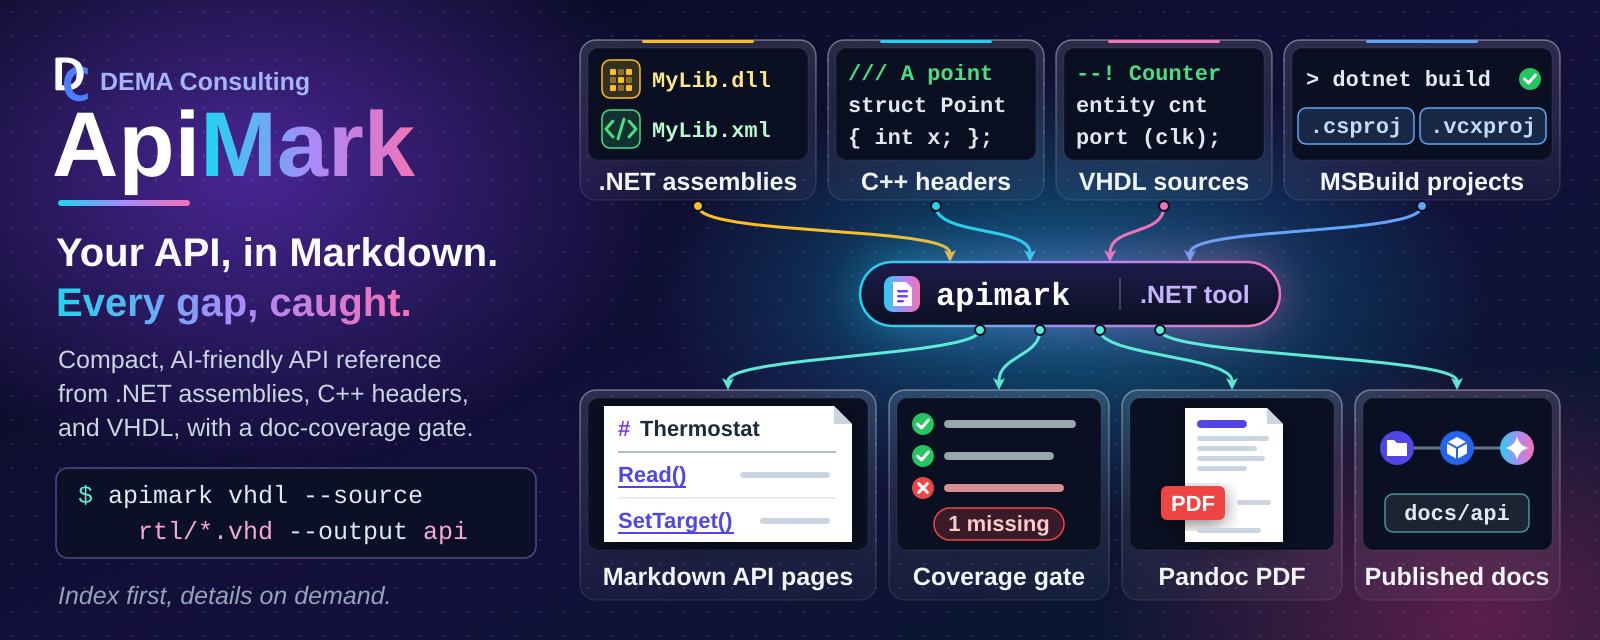
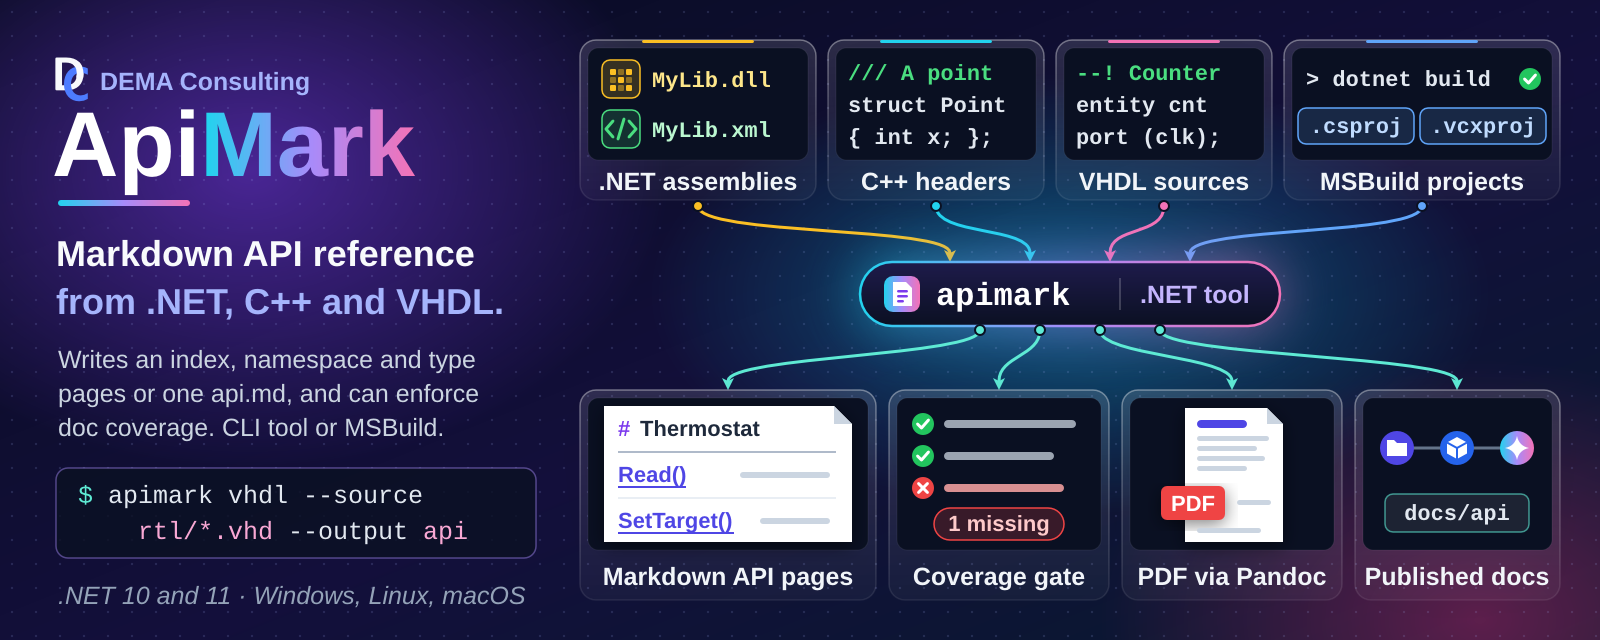
Calm the README hero and make it the H1
- Tagline: plain statement 'Markdown API reference / from .NET, C++
  and VHDL.' (36px, solid colors, no gradient text)
- Body and footnote state facts (output layout, doc coverage, CLI or
  MSBuild; .NET 10 and 11 on Windows, Linux, macOS)
- The PDF card is labelled as made downstream by Pandoc
- README: the hero is the H1 with the badges under it (Agents #66)

diff --git a/README.md b/README.md
@@ -1,4 +1,4 @@
-# ApiMark
+# ![ApiMark: Markdown API reference from .NET, C++ and VHDL. Writes an index, namespace and type pages or one api.md, and can enforce doc coverage. CLI tool or MSBuild. Shown with the command 'apimark vhdl --source rtl/*.vhd --output api' and the note '.NET 10 and 11, Windows, Linux, macOS'. .NET assemblies with their XML documentation, C++ headers, VHDL sources, and MSBuild projects flow into the apimark .NET tool, and arrows lead out to Markdown API pages with member tables and cross-links, a documentation-coverage gate that flags a missing doc comment, a PDF made from the Markdown by Pandoc, and docs published to the repository, the NuGet package, and AI agents][hero]
 
 <!-- IMPORTANT: All links in this file must be absolute URLs.
      This file is distributed in packages and relative links will not resolve. -->
@@ -11,8 +11,6 @@
 [![Quality Gate](https://sonarcloud.io/api/project_badges/measure?project=demaconsulting_ApiMark&metric=alert_status)](https://sonarcloud.io/dashboard?id=demaconsulting_ApiMark)
 [![Security](https://sonarcloud.io/api/project_badges/measure?project=demaconsulting_ApiMark&metric=security_rating)](https://sonarcloud.io/dashboard?id=demaconsulting_ApiMark)
 [![NuGet](https://img.shields.io/nuget/v/DemaConsulting.ApiMark.MSBuild?style=plastic)](https://www.nuget.org/packages/DemaConsulting.ApiMark.MSBuild)
-
-![ApiMark banner: the ApiMark name with the tagline 'Your API, in Markdown. Every gap, caught.' and the command 'apimark vhdl --source rtl/*.vhd --output api'. .NET assemblies with their XML documentation, C++ headers, VHDL sources, and MSBuild projects flow on curved arrows into the apimark .NET tool, and arrows lead out to Markdown API pages with member tables and cross-links, a documentation-coverage gate that flags a missing doc comment, a Pandoc PDF, and docs published to the repository, the NuGet package, and AI agents][hero]
 
 ## Overview
 
